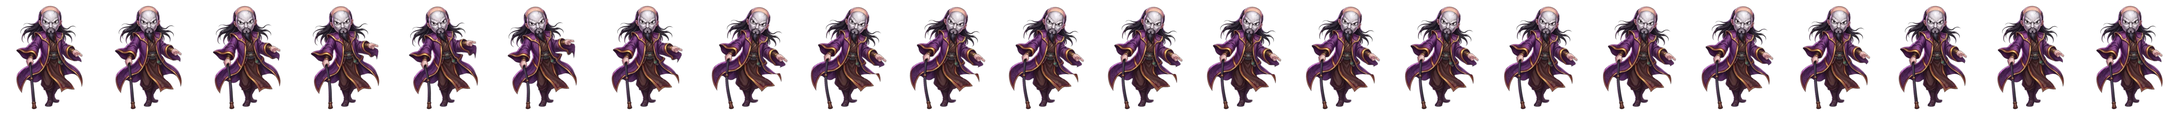
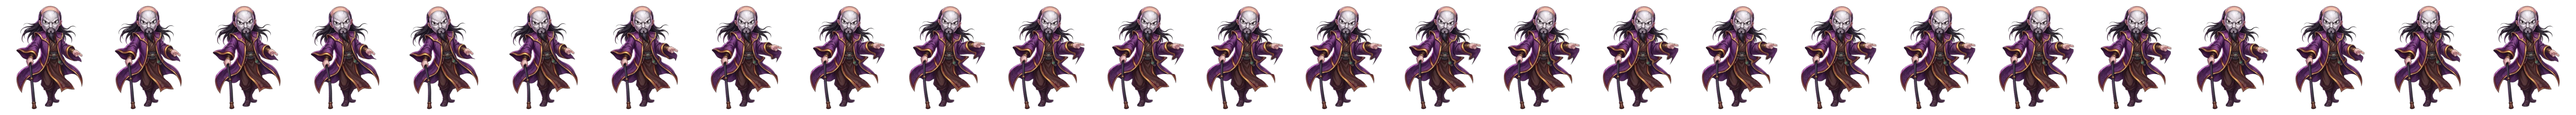
Doan Dien Khanh gio ngon tay ve truoc roi moi ban Chi Phap

diff --git a/index.html b/index.html
@@ -4,7 +4,7 @@
   <meta charset="UTF-8">
   <meta name="viewport" content="width=device-width, initial-scale=1.0, viewport-fit=cover">
   <title>Hiệp Khách Giang Hồ</title>
-  <link rel="stylesheet" href="game/style.css?v=2611121809">
+  <link rel="stylesheet" href="game/style.css?v=2611121823">
   <!-- phông chữ bút lông cho màn kết trận, tên tuyệt chiêu (có mạng mới tải được; không có thì dùng phông sẵn có) -->
   <link rel="stylesheet" href="https://fonts.googleapis.com/css2?family=Pattaya&display=swap">
 </head>
@@ -23,26 +23,26 @@
 
   <div id="toast"></div>
 
-  <script src="game/data.js?v=2611121809"></script>
-  <script src="game/chibi_quai.js?v=2611121809"></script>
-  <script src="game/icons.js?v=2611121809"></script>
-  <script src="game/avatars.js?v=2611121809"></script>
-  <script src="game/effects.js?v=2611121809"></script>
-  <script src="game/audio.js?v=2611121809"></script>
-  <script src="game/thap.js?v=2611121809"></script>
-  <script src="game/ban_do.js?v=2611121809"></script>
-  <script src="game/tu_dong.js?v=2611121809"></script>
-  <script src="game/san_dau.js?v=2611121809"></script>
-  <script src="game/mon_phai.js?v=2611121809"></script>
-  <script src="game/truy_na.js?v=2611121809"></script>
-  <script src="game/thi_luyen.js?v=2611121809"></script>
-  <script src="game/the_gioi.js?v=2611121809"></script>
-  <script src="game/trang_chu.js?v=2611121809"></script>
-  <script src="game/tran_doi.js?v=2611121809"></script>
-  <script src="game/ai_giang_ho.js?v=2611121809"></script>
-  <script src="game/tang_cap.js?v=2611121809"></script>
-  <script src="game/tai_truoc.js?v=2611121809"></script>
-  <script src="game/tai_khoan.js?v=2611121809"></script>
-  <script src="game/engine.js?v=2611121809"></script>
+  <script src="game/data.js?v=2611121823"></script>
+  <script src="game/chibi_quai.js?v=2611121823"></script>
+  <script src="game/icons.js?v=2611121823"></script>
+  <script src="game/avatars.js?v=2611121823"></script>
+  <script src="game/effects.js?v=2611121823"></script>
+  <script src="game/audio.js?v=2611121823"></script>
+  <script src="game/thap.js?v=2611121823"></script>
+  <script src="game/ban_do.js?v=2611121823"></script>
+  <script src="game/tu_dong.js?v=2611121823"></script>
+  <script src="game/san_dau.js?v=2611121823"></script>
+  <script src="game/mon_phai.js?v=2611121823"></script>
+  <script src="game/truy_na.js?v=2611121823"></script>
+  <script src="game/thi_luyen.js?v=2611121823"></script>
+  <script src="game/the_gioi.js?v=2611121823"></script>
+  <script src="game/trang_chu.js?v=2611121823"></script>
+  <script src="game/tran_doi.js?v=2611121823"></script>
+  <script src="game/ai_giang_ho.js?v=2611121823"></script>
+  <script src="game/tang_cap.js?v=2611121823"></script>
+  <script src="game/tai_truoc.js?v=2611121823"></script>
+  <script src="game/tai_khoan.js?v=2611121823"></script>
+  <script src="game/engine.js?v=2611121823"></script>
 </body>
 </html>

diff --git a/thu_blender.html b/thu_blender.html
@@ -84,7 +84,7 @@
     back:  { src: 'game/img/blender/fx_bl_khien_sau.webp', n: 20, w: 224, h: 280 },
     front: { src: 'game/img/blender/fx_bl_khien_truoc.webp', n: 20, w: 224, h: 280 },
     idle:  { src: 'game/img/blender/doan_idle.webp', n: 24 },
-    atk:   { src: 'game/img/blender/doan_atk.webp', n: 22 },
+    atk:   { src: 'game/img/blender/doan_atk.webp', n: 26 },
   };
   // vùng xuất của hình động (px hình gốc 446 x 700): x -110..556, y -40..740
   const ANIM_BOX = { x0: -110, y0: -40, x1: 556, y1: 740, iw: 446 };
@@ -116,7 +116,7 @@
     if (!animOn) { sp.style.visibility = ''; return null; }
     sp.style.visibility = 'hidden';
     const loop = which === 'idle';
-    animEl = sheet(SH[which], animBox(), loop, loop ? 1300 : 1100);
+    animEl = sheet(SH[which], animBox(), loop, 1300);
     el.doan.appendChild(animEl);
     if (!loop) { const me = animEl; me._anim.onfinish = () => { if (animEl === me) playDoan('idle'); }; }
     return animEl;
@@ -147,12 +147,15 @@
   }
 
   async function chi() {
-    if (animOn) { playDoan('atk'); await wait(330); }   // lấy đà rồi chồm tới chĩa ngón (khung 7 trong 22)
+    // lấy đà, giơ tay ngang chĩa ngón về trước (khung 9 trong 26), giữ thế ở khung 11 tới khi bắn xong
+    let an = null;
+    if (animOn) { an = playDoan('atk')._anim; await wait(470); }
     const a = hand();
-    if (animOn) { const k = el.doan.getBoundingClientRect().width / ANIM_BOX.iw; a.x += 85 * k; a.y += 40 * k; }
+    if (animOn) { const k = el.doan.getBoundingClientRect().width / ANIM_BOX.iw; a.x += 91 * k; a.y -= 66 * k; }
     const orb = document.createElement('div'); orb.className = 'orb'; orb.style.left = a.x + 'px'; orb.style.top = a.y + 'px';
     fx.appendChild(orb);
     await wait(animOn ? 100 : 380);
+    if (an) { an.pause(); an.currentTime = 11.5 / 26 * 1300 * slow; }
     const foes = ['e1', 'e2', 'e3'], shots = [];
     foes.forEach((k, j) => { for (let n = 0; n < 4; n++) shots.push({ k, last: n === 3, at: j * 70 + n * 190 + Math.random() * 90 }); });
     const fly = 280, W = 36 * cq();
@@ -174,6 +177,7 @@
     }, sh.at * slow))));
     await wait(220);
     orb.remove();
+    if (an && animEl && animEl._anim === an) an.play();   // hạ tay về thế đứng
   }
 
   let shield = [];
